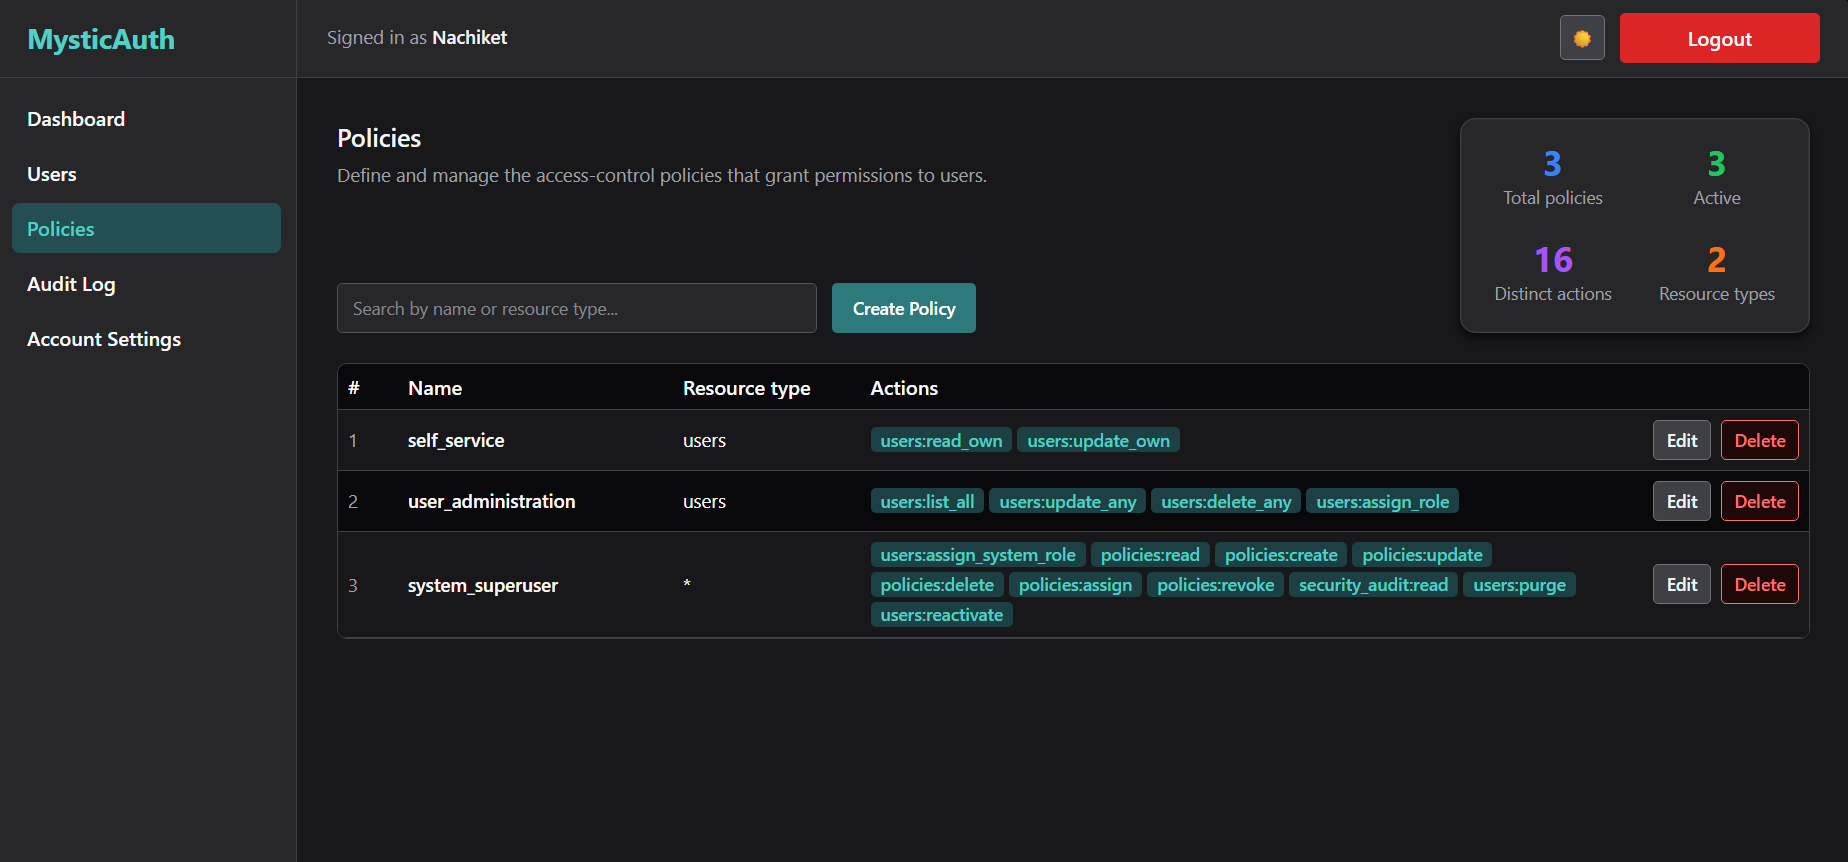
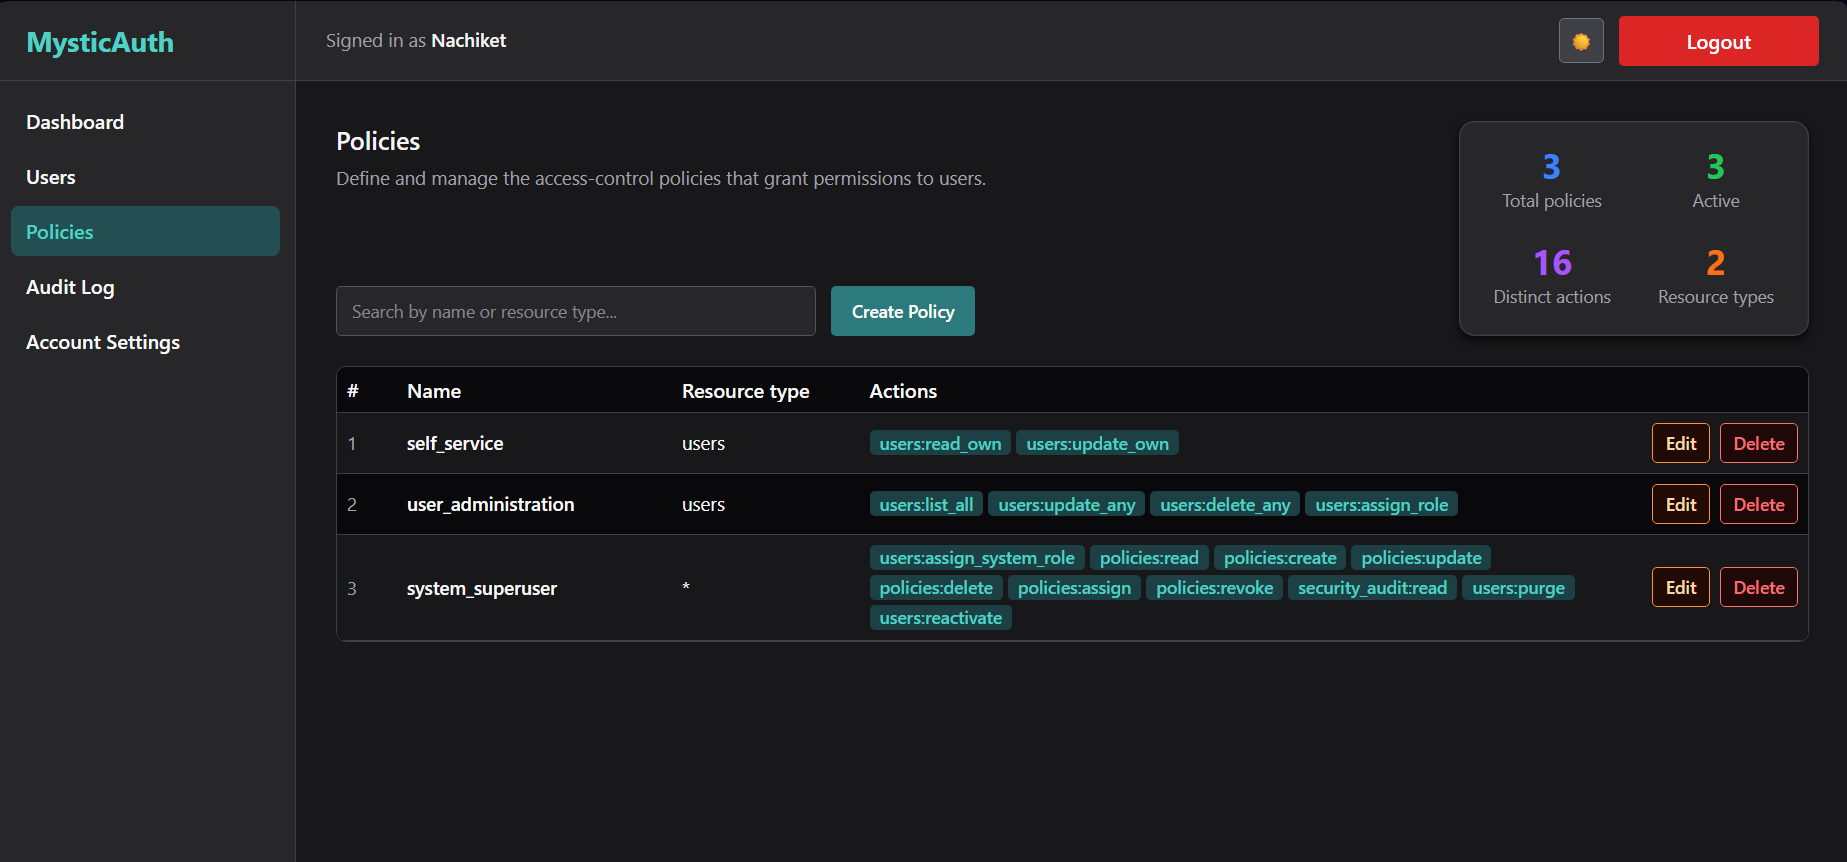
Coloured action buttons with dark-mode hover, decoupled DEFAULT_APP_POLICIES from test assertions

diff --git a/frontend/src/mystic_auth/ui/TableActionButton.tsx b/frontend/src/mystic_auth/ui/TableActionButton.tsx
@@ -1,30 +1,16 @@
 import React from "react";
 import { Button, type ButtonProps } from "@chakra-ui/react";
 
-// gray/red/green cover every colorPalette this app currently passes to a
-// row-action button (Edit/Policies use none -> gray; Delete/Purge -> red;
-// Reactivate -> green). Each carries its own filled background (not just an
+// red/green/orange/blue/purple cover every colorPalette this app currently
+// passes to a row-action button (Delete/Purge -> red; Reactivate -> green;
+// Edit -> orange; View -> blue; Policies -> purple). Each carries its own
+// filled background (not just an
 // outline on transparent) so the button reads as a raised control against a
 // striped table row in both modes, plus a border one step darker/lighter
 // than that fill so the edge stays visible against it, and a hover state
 // that darkens/lightens both the fill and the border together for a clear,
 // two-part state change rather than a barely-different background alone.
 const PALETTE_STYLES = {
-    // Edit/Policies (the two most-used row actions) live here. Now mirrors
-    // red's own hover: a full solid fill plus a contrasting text color, not
-    // just a lighter/darker shade of the same tint - "fills up" the same
-    // way Delete does instead of merely shifting value. Light and dark
-    // solid fills sit at opposite ends of the gray scale (gray.600 vs.
-    // gray.300), so each needs its own contrasting hover text (white vs.
-    // gray.900) rather than sharing one hoverColor like red does.
-    gray: {
-        border: "gray.500", hoverBorder: "gray.700",
-        bg: "gray.100", hoverBg: "gray.600",
-        borderDark: "gray.500", hoverBorderDark: "gray.300",
-        bgDark: "gray.700", hoverBgDark: "gray.300",
-        color: "fg.default", hoverColor: "white",
-        hoverColorDark: "gray.900",
-    },
     // Solid fill (not just a light tint) on hover, plus white text: a
     // stronger cue than the other palettes deliberately, since this is
     // used for destructive actions (Delete/Purge).
@@ -33,16 +19,57 @@ const PALETTE_STYLES = {
         bg: "red.50", hoverBg: "red.500",
         borderDark: "red.400", hoverBorderDark: "red.600",
         bgDark: "red.950", hoverBgDark: "red.600",
-        color: "fg.error", hoverColor: "white",
+        color: "fg.error", colorDark: undefined, hoverColor: "white",
         hoverColorDark: "white",
     },
+    // Reactivate. Same solid-fill-on-hover shape as red/orange/blue/purple
+    // below (not the light-tint-only hover it used to have) so every row
+    // action "fills up" identically on hover instead of Reactivate alone
+    // reading as a weaker, half-finished version of the others.
     green: {
-        border: "green.400", hoverBorder: "green.500",
-        bg: "green.50", hoverBg: "green.100",
-        borderDark: "green.400", hoverBorderDark: "green.700",
-        bgDark: "green.950", hoverBgDark: "green.900",
-        color: "fg.success", hoverColor: undefined,
-        hoverColorDark: undefined,
+        border: "green.400", hoverBorder: "green.600",
+        bg: "green.50", hoverBg: "green.500",
+        borderDark: "green.400", hoverBorderDark: "green.500",
+        bgDark: "green.950", hoverBgDark: "green.600",
+        color: "fg.success", colorDark: undefined, hoverColor: "white",
+        hoverColorDark: "white",
+    },
+    // Edit. Light tint at rest, but fills fully solid with white text on
+    // hover, same as red/green above, matching how Delete/Purge read as
+    // "activated" rather than just a shade darker. Unlike red/green, there's
+    // no fg.warning semantic token to lean on for a dark-aware base text
+    // color, so colorDark is spelled out explicitly - orange.700 (tuned for
+    // the light orange.50 chip) would be far too dark to read against this
+    // same palette's dark orange.950 chip otherwise.
+    orange: {
+        border: "orange.400", hoverBorder: "orange.600",
+        bg: "orange.50", hoverBg: "orange.500",
+        borderDark: "orange.400", hoverBorderDark: "orange.500",
+        bgDark: "orange.950", hoverBgDark: "orange.600",
+        color: "orange.700", colorDark: "orange.200", hoverColor: "white",
+        hoverColorDark: "white",
+    },
+    // View. Same solid-fill-on-hover treatment and same reasoning as orange
+    // above for the explicit colorDark (no fg.info token to fall back on).
+    blue: {
+        border: "blue.400", hoverBorder: "blue.600",
+        bg: "blue.50", hoverBg: "blue.500",
+        borderDark: "blue.400", hoverBorderDark: "blue.500",
+        bgDark: "blue.950", hoverBgDark: "blue.600",
+        color: "blue.700", colorDark: "blue.200", hoverColor: "white",
+        hoverColorDark: "white",
+    },
+    // Policies. Purple rather than reusing green/orange/blue so it reads as
+    // its own deliberate action next to Edit/View/Delete, and distinct from
+    // the app's own brand teal. Same solid-fill-on-hover shape and same
+    // explicit-colorDark reasoning as orange/blue above.
+    purple: {
+        border: "purple.400", hoverBorder: "purple.600",
+        bg: "purple.50", hoverBg: "purple.500",
+        borderDark: "purple.400", hoverBorderDark: "purple.500",
+        bgDark: "purple.950", hoverBgDark: "purple.600",
+        color: "purple.700", colorDark: "purple.200", hoverColor: "white",
+        hoverColorDark: "white",
     },
 } as const;
 
@@ -57,8 +84,12 @@ const PALETTE_STYLES = {
  * own built-in _hover, which fights with any hover style set here (see
  * LoginForm's Clear button history for why).
  */
-const TableActionButton: React.FC<ButtonProps> = ({ colorPalette, ...rest }) => {
-    const palette = PALETTE_STYLES[(colorPalette as keyof typeof PALETTE_STYLES) ?? "gray"] ?? PALETTE_STYLES.gray;
+type TableActionButtonProps = Omit<ButtonProps, "colorPalette"> & {
+    colorPalette: keyof typeof PALETTE_STYLES;
+};
+
+const TableActionButton: React.FC<TableActionButtonProps> = ({ colorPalette, ...rest }) => {
+    const palette = PALETTE_STYLES[colorPalette];
 
     return (
         <Button
@@ -79,6 +110,7 @@ const TableActionButton: React.FC<ButtonProps> = ({ colorPalette, ...rest }) => 
             _dark={{
                 borderColor: palette.borderDark,
                 bg: palette.bgDark,
+                color: palette.colorDark,
                 _hover: { bg: palette.hoverBgDark, borderColor: palette.hoverBorderDark, color: palette.hoverColorDark },
             }}
             {...rest}

diff --git a/frontend/src/mystic_auth/dashboard/DashboardPage.tsx b/frontend/src/mystic_auth/dashboard/DashboardPage.tsx
@@ -1,5 +1,5 @@
 import React, { useEffect, useState } from "react";
-import { Badge, Box, Heading, Container, Text, Separator, EmptyState, HStack, Stack, Button, Flex } from "@chakra-ui/react";
+import { Badge, Box, Heading, Container, Text, Separator, EmptyState, HStack, Stack, Flex } from "@chakra-ui/react";
 import { useNavigate } from "react-router";
 import { CalendarDays, Clock, LogOut, Mail, Monitor, Pencil, ShieldCheck, User } from "lucide-react";
 
@@ -17,7 +17,6 @@ import LoadingState from "../ui/LoadingState";
 import FormAlert from "../ui/FormAlert";
 import ConfirmDialog from "../ui/ConfirmDialog";
 import TableActionButton from "../ui/TableActionButton";
-import { SECONDARY_BUTTON_PROPS } from "../ui/styles/buttonStyles";
 
 interface StatItemProps {
     icon: React.ReactNode;
@@ -193,14 +192,14 @@ const DashboardPage: React.FC = () => {
                             <Separator orientation="vertical" display={{ base: "none", md: "block" }} />
 
                             <Stack gap={4} minW="140px" flexShrink={0} alignSelf="flex-start">
-                                <Button
+                                <TableActionButton
                                     size="sm"
                                     fontSize="15px"
+                                    colorPalette="orange"
                                     onClick={() => navigate("/account-settings")}
-                                    {...SECONDARY_BUTTON_PROPS}
                                 >
                                     <Pencil size={16} aria-hidden="true" /> Account Settings
-                                </Button>
+                                </TableActionButton>
                                 <TableActionButton
                                     size="sm"
                                     fontSize="15px"

diff --git a/frontend/src/mystic_auth/users/usersColumns.tsx b/frontend/src/mystic_auth/users/usersColumns.tsx
@@ -115,11 +115,11 @@ export function buildUsersColumns({
             width: "400px",
             render: (u) => (
                 <HStack justify="flex-end" gap={2} wrap="wrap">
-                    <TableActionButton onClick={() => onView(u)}>
+                    <TableActionButton colorPalette="blue" onClick={() => onView(u)}>
                         View
                     </TableActionButton>
                     <IfCan action={PERMISSIONS.POLICIES_READ}>
-                        <TableActionButton onClick={() => onPolicies(u.email)}>
+                        <TableActionButton colorPalette="purple" onClick={() => onPolicies(u.email)}>
                             Policies
                         </TableActionButton>
                     </IfCan>

diff --git a/frontend/src/mystic_auth/policies/PoliciesPage.tsx b/frontend/src/mystic_auth/policies/PoliciesPage.tsx
@@ -142,7 +142,7 @@ const PoliciesPage: React.FC = () => {
             render: (p) => (
                 <HStack justify="flex-end" gap={2}>
                     <IfCan action={PERMISSIONS.POLICIES_UPDATE}>
-                        <TableActionButton onClick={() => openEditForm(p)}>
+                        <TableActionButton colorPalette="orange" onClick={() => openEditForm(p)}>
                             Edit
                         </TableActionButton>
                     </IfCan>

diff --git a/tests/backend/mystic_auth/unit/auth/oauth2/test_oauth2_service_unit.py b/tests/backend/mystic_auth/unit/auth/oauth2/test_oauth2_service_unit.py
@@ -54,6 +54,10 @@ async def test_login_or_create_user_marks_unverified_existing_user_verified(mock
     )
     mocker.patch(f"{MODULE}.jwt_service.create_access_token", return_value="access-token")
     mocker.patch(f"{MODULE}.jwt_service.create_refresh_token", return_value="refresh-token")
+    # assign_app_default_policies is DEFAULT_APP_POLICIES's own extension
+    # point, tested in isolation in test_default_policies_unit.py; mocked
+    # here so this test's assertions don't depend on that env var.
+    mocker.patch(f"{MODULE}.assign_app_default_policies", new_callable=AsyncMock)
 
     result = await oauth2_service.login_or_create_user(db=None, user_info={"email": "user@example.com"})
 
@@ -82,6 +86,7 @@ async def test_login_or_create_user_clears_password_on_pre_hijacked_unverified_a
     )
     mocker.patch(f"{MODULE}.jwt_service.create_access_token", return_value="access-token")
     mocker.patch(f"{MODULE}.jwt_service.create_refresh_token", return_value="refresh-token")
+    mocker.patch(f"{MODULE}.assign_app_default_policies", new_callable=AsyncMock)
 
     result = await oauth2_service.login_or_create_user(db=None, user_info={"email": "victim@example.com"})
 
@@ -145,6 +150,7 @@ async def test_login_or_create_user_creates_new_verified_user(mocker):
     assign_mock = mocker.patch(f"{MODULE}.policy_repository.assign_policy_to_user", new_callable=AsyncMock)
     mocker.patch(f"{MODULE}.jwt_service.create_access_token", return_value="access-token")
     mocker.patch(f"{MODULE}.jwt_service.create_refresh_token", return_value="refresh-token")
+    mocker.patch(f"{MODULE}.assign_app_default_policies", new_callable=AsyncMock)
 
     result = await oauth2_service.login_or_create_user(
         db=None, user_info={"email": "new@example.com", "name": "New User"}
@@ -177,6 +183,7 @@ async def test_login_or_create_user_assigns_self_service_policy_to_new_user(mock
     assign_mock = mocker.patch(f"{MODULE}.policy_repository.assign_policy_to_user", new_callable=AsyncMock)
     mocker.patch(f"{MODULE}.jwt_service.create_access_token", return_value="access-token")
     mocker.patch(f"{MODULE}.jwt_service.create_refresh_token", return_value="refresh-token")
+    default_policies_mock = mocker.patch(f"{MODULE}.assign_app_default_policies", new_callable=AsyncMock)
 
     await oauth2_service.login_or_create_user(
         db="fake-db", user_info={"email": "new@example.com", "name": "New User"}
@@ -186,6 +193,7 @@ async def test_login_or_create_user_assigns_self_service_policy_to_new_user(mock
     assign_mock.assert_awaited_once_with(
         user_id=42, policy_id=7, db="fake-db", assigned_by="system"
     )
+    default_policies_mock.assert_awaited_once_with(42, "fake-db")
 
 
 @pytest.mark.asyncio

diff --git a/tests/backend/mystic_auth/integration/conftest.py b/tests/backend/mystic_auth/integration/conftest.py
@@ -1,0 +1,17 @@
+# tests/backend/mystic_auth/integration/conftest.py
+#
+# Forces settings.DEFAULT_APP_POLICIES = "" for this suite. Several
+# integration tests assert an exact policy/permission set after
+# create_verified_user(...), which goes through the real signup -> verify
+# flow and therefore really calls assign_app_default_policies (unlike the
+# unit tests in test_oauth2_service_unit.py, which mock that call out). If a
+# downstream app sets DEFAULT_APP_POLICIES (e.g. to "app_self_service") in
+# the .env this suite reads, those extra policies would get assigned on top
+# of what these tests expect and break their exact-set assertions, for a
+# reason entirely unrelated to what each test is actually checking. Forcing
+# it empty here decouples this suite's assertions from whatever a downstream
+# app happens to configure, the same way the oauth2 unit tests were made
+# independent of it.
+from backend.mystic_auth.core.settings import settings
+
+settings.DEFAULT_APP_POLICIES = ""

diff --git a/docs/mystic_auth/project-story/README.md b/docs/mystic_auth/project-story/README.md
@@ -32,7 +32,7 @@ What started as a shortcut for future projects became a project of its own.
 
 ## How it evolved
 
-The commit history shows the real evolution, not a fully planned architecture from day one. The first on 18 August, 2025 to the most recent on 9 August, 2026. There's a 4-month gap between October 2025 and February 2026. Below, days committed back-to-back are grouped into one range while an isolated day stands on its own.
+The commit history shows the real evolution, not a fully planned architecture from day one. The first on 18 August, 2025 to the most recent on 10 August, 2026. There's a 4-month gap between October 2025 and February 2026. Below, days committed back-to-back are grouped into one range while an isolated day stands on its own.
 
 ```mermaid
 timeline
@@ -242,11 +242,11 @@ The template changed across UI, backend behavior, Docker, CI, tests, and documen
 
 Running a real upstream sync with Claude Code against another one of my projects surfaced four real gaps in `sync-upstream.sh`: a binary file mid-patch could make `git apply --3way` silently drop the rest of the diff while still looking like a normal result, nothing caught two migrations landing on the same alembic head, comment-only rewording upstream kept forcing the same conflict every sync, and Windows/Git Bash friction was still a manual workaround instead of just working. All four got fixed, `scripts/` was reorganized into `upstream-sync/`, `docker/`, and `db/` subfolders, and docs across the repo were updated to match.
 
-### 7 August, 2026 - 9 August, 2026
+### 7 August, 2026 - 10 August, 2026
 
-A 202-file restructure renamed and relocated files across frontend and backend to match the feature-based layout, splitting `user_management_routes.py` into lifecycle, query, and update route files. Alongside it: an explicit `users:assign_system_role` check replaced the broader `users:assign_role` permission for the system role, password reset confirmation moved to a reset-scoped token check, a `nanoid` advisory was fixed, a toast/navbar overlap resolved, and Taskiq retries got real exponential backoff via `SmartRetryMiddleware` and a new `taskiq_scheduler` container.
+A 202-file restructure matched frontend and backend to the feature-based layout, splitting `user_management_routes.py` into lifecycle, query, and update route files, alongside a tighter `users:assign_system_role` check, a reset-scoped password-reset token check, a `nanoid` advisory fix, a toast/navbar overlap fix, and real exponential backoff for Taskiq retries via `SmartRetryMiddleware` plus a new `taskiq_scheduler` container.
 
-Building other projects on top of mystic-auth surfaced two real extension gaps. One project needed its own navbar links without editing the shared sidebar, so an `extraNavbarContent` prop was added while another needed to grant a second default policy to every user, which meant hand-editing upstream's signup/OAuth2 code, so a `DEFAULT_APP_POLICIES` setting was added instead, letting a downstream app grant its own default policies to every verified user without touching those files.
+Downstream use kept surfacing real extension gaps: an `extraNavbarContent` prop let a project add its own navbar links without touching the shared sidebar, and a `DEFAULT_APP_POLICIES` setting let another grant a second default policy to every user without hand-editing upstream's signup/OAuth2 code. Row-action buttons across the tables got distinct, dark-mode-aware colors. A downstream bug report then caught that the oauth2 unit tests, and three auth/authorization integration tests asserting exact policy sets, only passed because `DEFAULT_APP_POLICIES` happened to be empty in this repo's own CI, so the unit tests were fixed to mock the extension point directly and the integration suite got a conftest that forces it empty, instead of either depending on that env var.
 
 ---
 

diff --git a/docs/mystic_auth/project-story/tools.md b/docs/mystic_auth/project-story/tools.md
@@ -38,7 +38,7 @@ Working through ChatGPT's suggestions and adjusting them to fit the real codebas
 
 ---
 
-## 14 July, 2026 - 9 August, 2026
+## 14 July, 2026 - 10 August, 2026
 
 Two days before this stretch started, I bought a Claude Code Pro plan to try it out. The Claude Code loop above replaced the ChatGPT + VSCode loop for the rest of the project. The first commit with it, on 14 July, 2026, was the big one: PBAC, audit logging, security hardening, the Redux-to-Zustand/TanStack-Query migration, CI/CD pipelines, documentation, and 650+ tests, all in one sitting, because the existing feature-based architecture meant most of it could be added as new domains rather than a rewrite. I hit the 5-hour usage window 2-3 times and used roughly 65% of my weekly quota just on that one commit.
 
